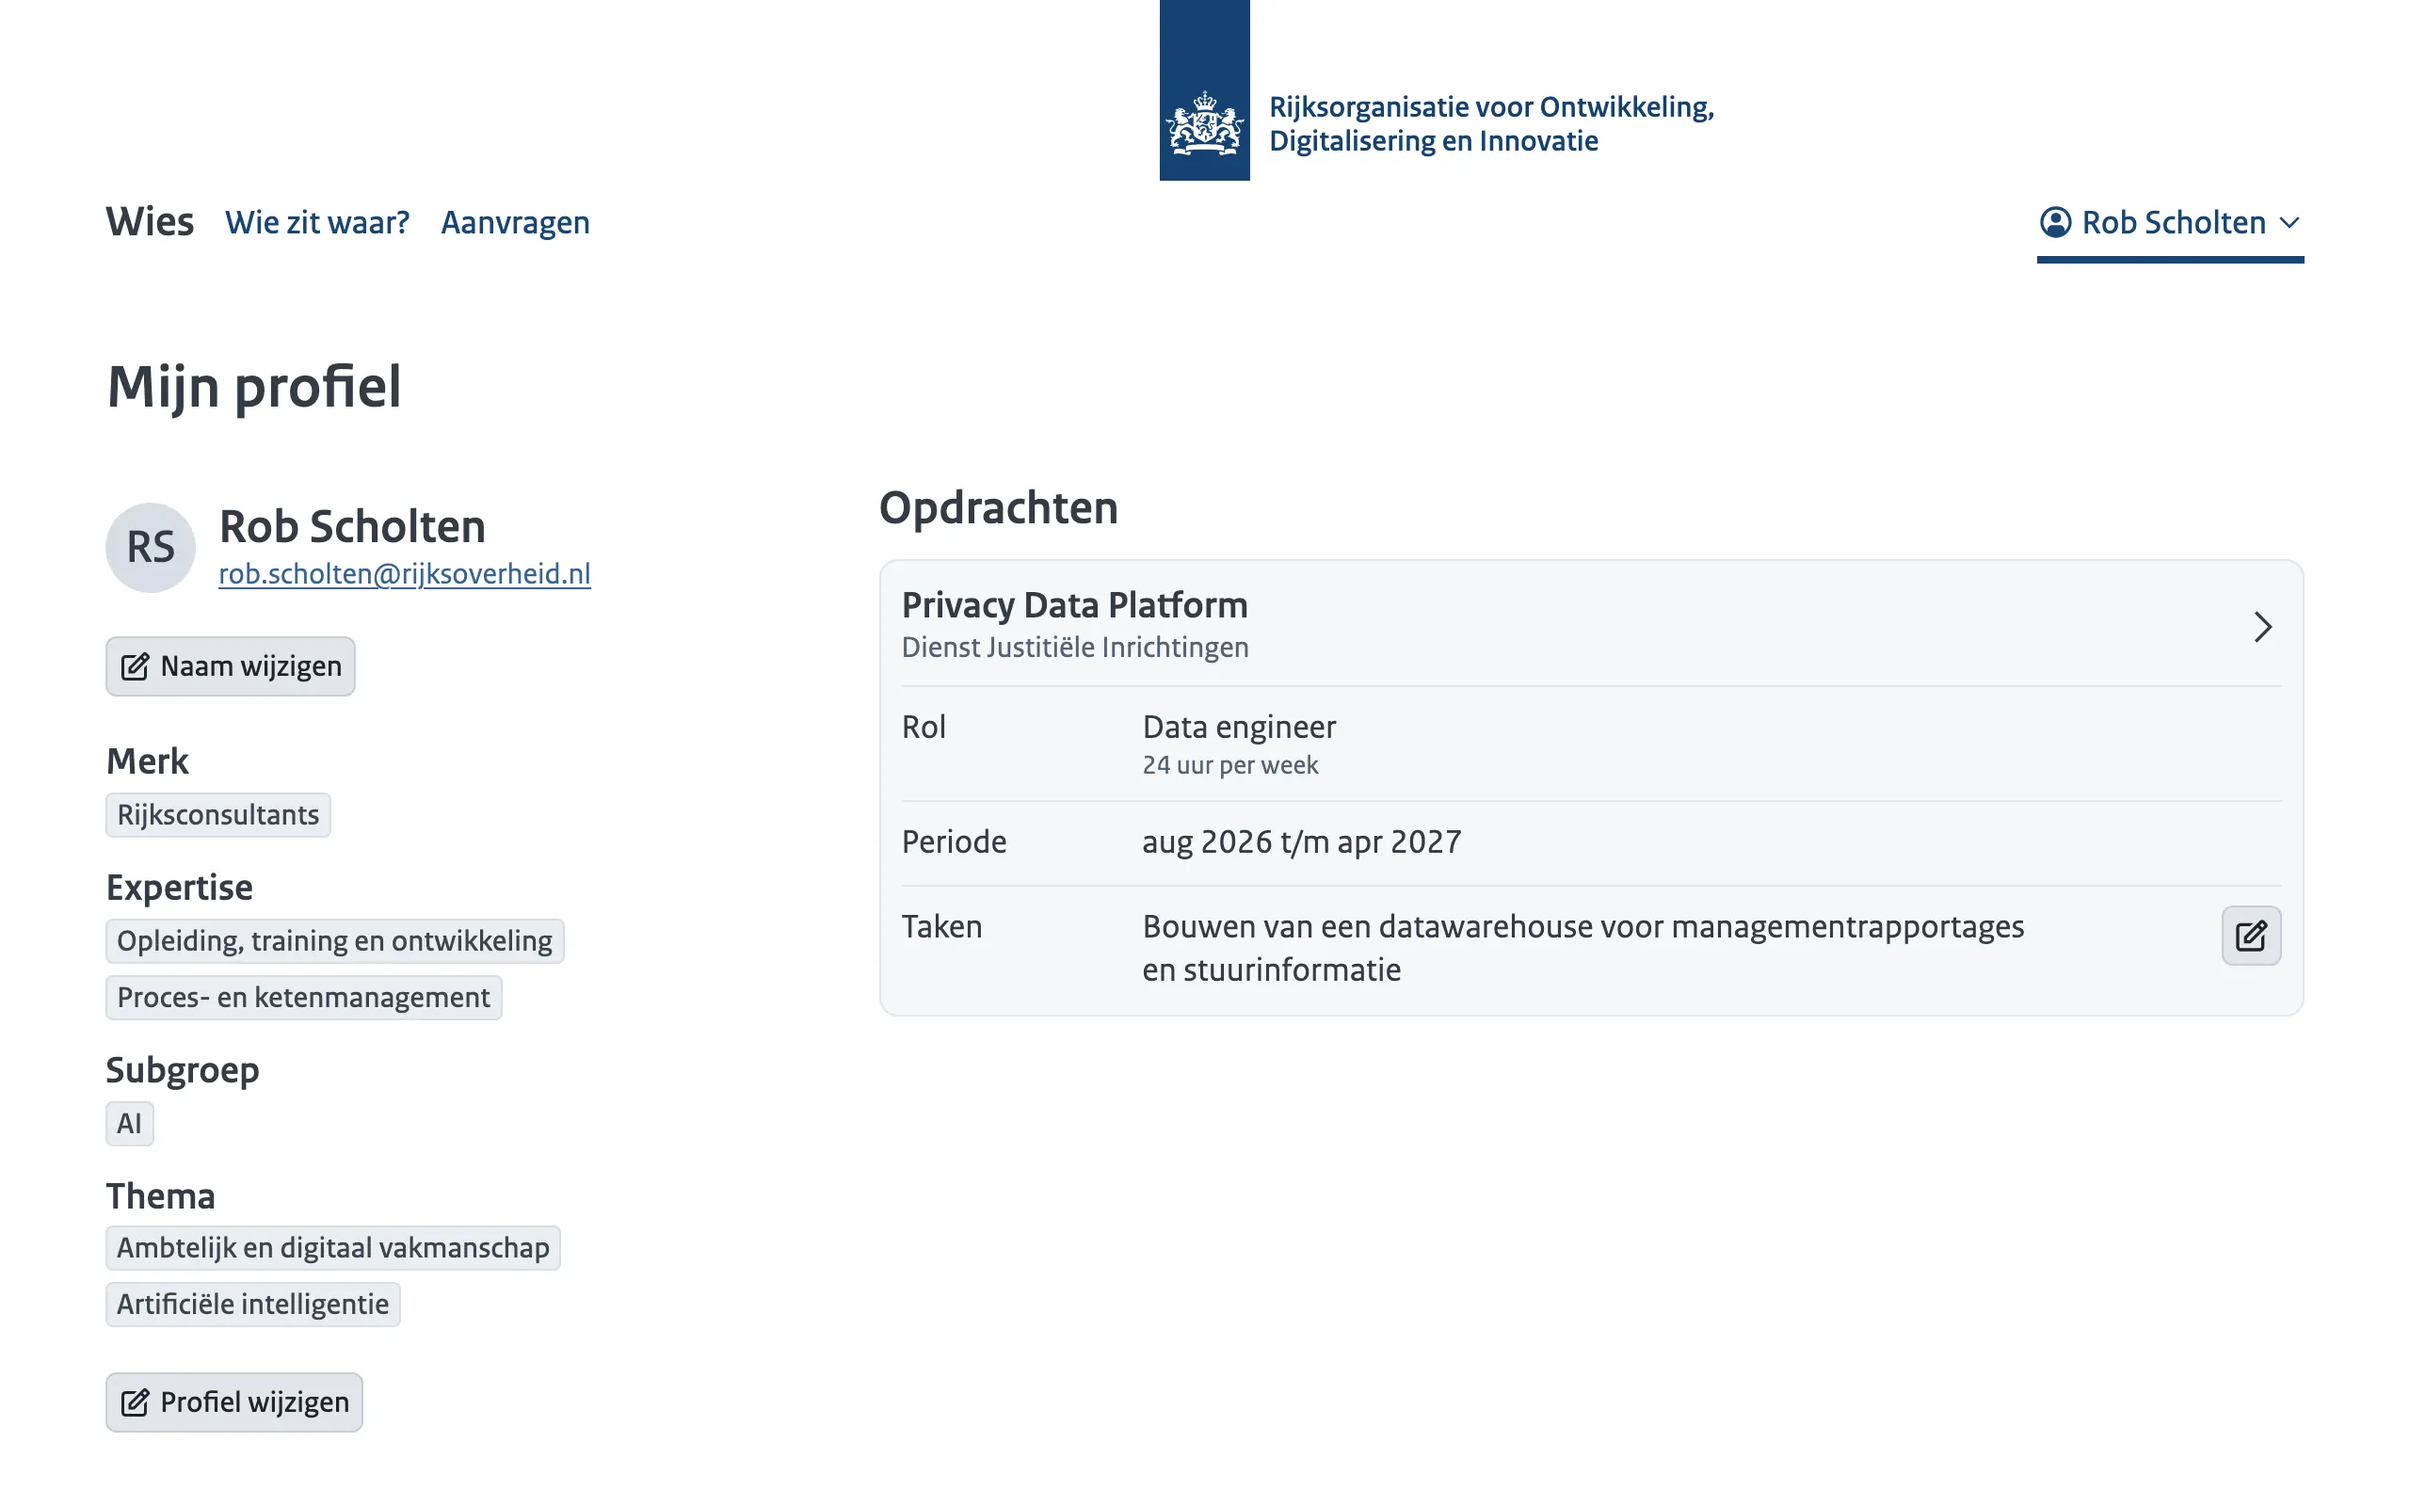
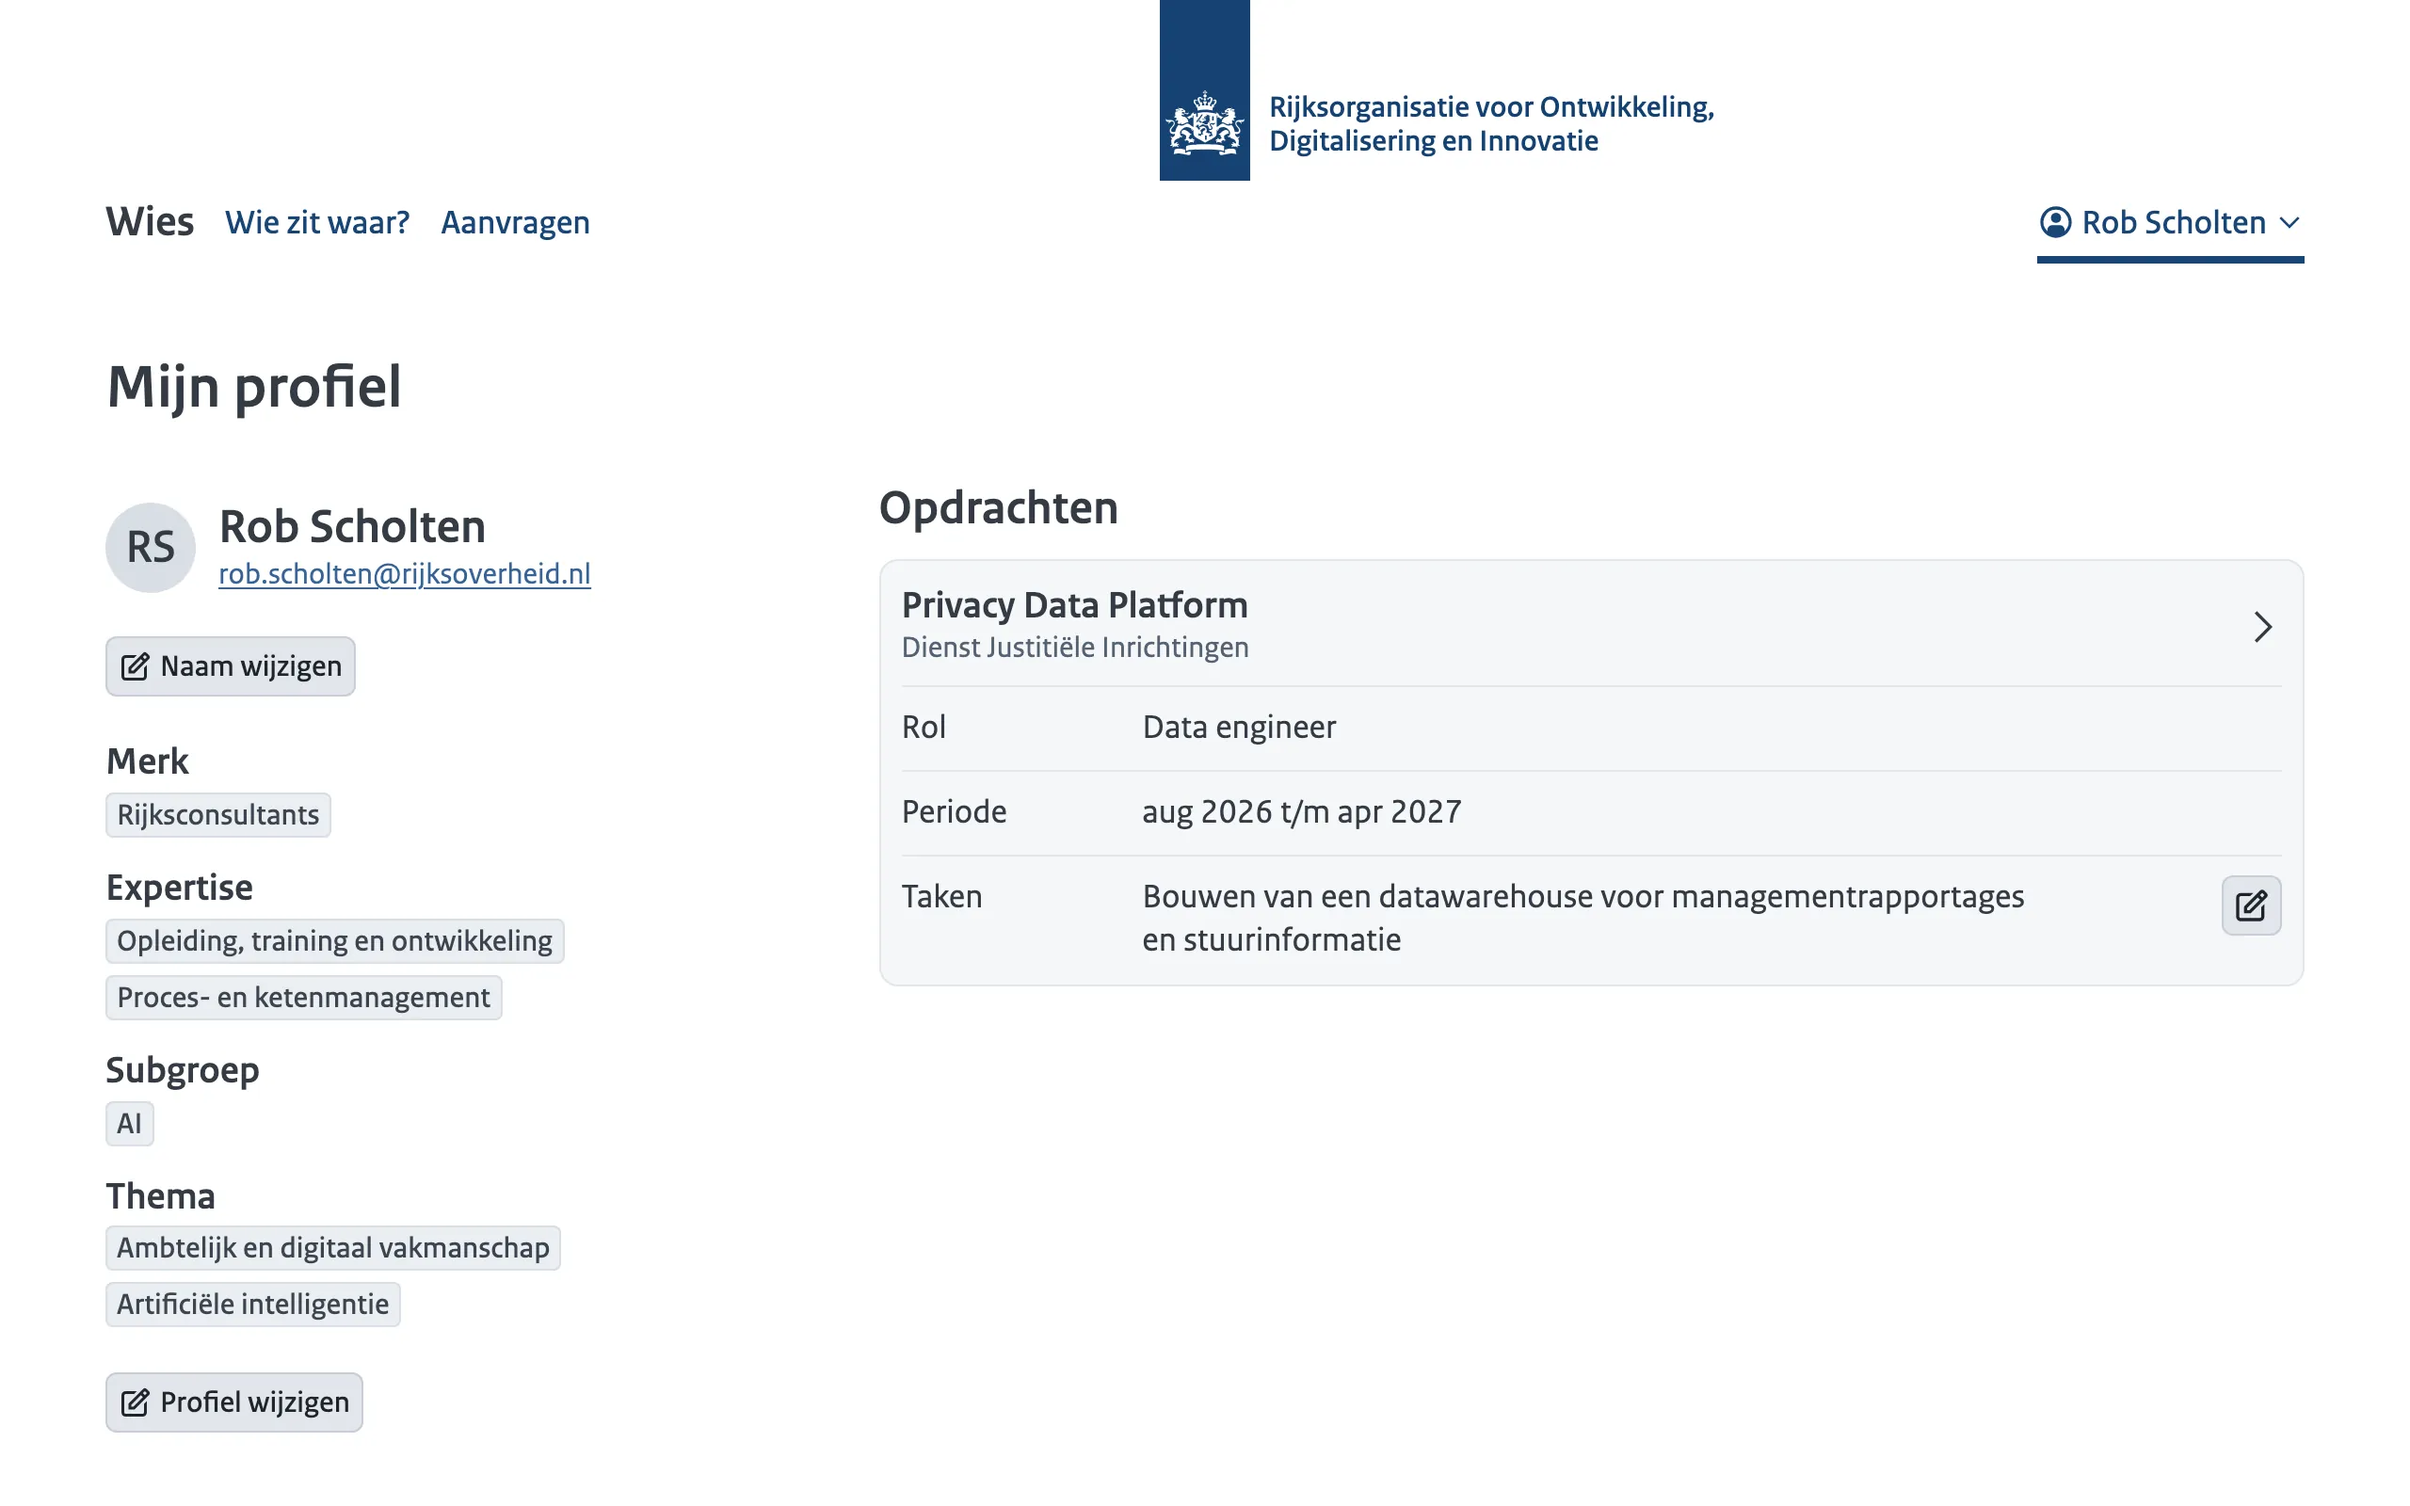
Hide a consultant's own role hours (#736)
Only the Business Manager sees the hours per week of a placed role; an open
aanvraag still shows its hours to everyone. The number raised more questions
about who could see it than it answered for the consultant.

Changed region(s): [[0.4688, 0.5, 0.8438, 0.6562], [0.375, 0.5312, 0.4375, 0.625], [0.9062, 0.5938, 0.9375, 0.625]]

diff --git a/wies/core/jinja2/handleiding.html b/wies/core/jinja2/handleiding.html
@@ -86,7 +86,7 @@
   <h3 id="wie-ziet-je-taken">Wie ziet je taken?</h3>
   <p>
     Collega's zien bij je opdracht je rol, de periode en je taken. Je uren per week
-    zien alleen jij en de Business Managers.
+    zien alleen de Business Managers.
   </p>
   <nldd-image class="wies-shot" src="{{ static('handleiding/zo-zien-collegas-je.webp') }}" alt="Je profiel zoals een collega het ziet: je naam, merk en labels, en je opdracht met rol, periode en taken, zonder uren per week" aspect-ratio="16/10" object-fit="contain"></nldd-image>
   <h2 id="zelf-aanpassen">Wat je verder zelf kunt aanpassen</h2>

diff --git a/wies/core/jinja2/privacy.html b/wies/core/jinja2/privacy.html
@@ -34,7 +34,7 @@
     <li>
       Contracturen per week, met de periode waarin die golden; zichtbaar voor business managers en gebruikersbeheerders
     </li>
-    <li>Uren per week van je rol op een opdracht; zichtbaar voor business managers en jezelf</li>
+    <li>Uren per week van je rol op een opdracht; zichtbaar voor business managers</li>
     <li>De datum waarop je uit dienst bent gegaan, als einde van je laatste contractperiode</li>
   </ul>
   <h2>Waarvoor gebruiken wij jouw gegevens?</h2>

diff --git a/wies/core/tests/test_hours.py b/wies/core/tests/test_hours.py
@@ -1074,8 +1074,9 @@ class ServiceHoursPermissionTest(TestCase):
         assert Event.objects.count() == before
 
     def test_hours_of_a_placed_colleague_are_hidden_from_team_mates(self):
-        """Team mates see each other's role and description, not the hours; an
-        open aanvraag shows its hours to everyone; a Business Manager sees them all."""
+        """Team mates see each other's role and description, not the hours, and a
+        consultant not even their own; an open aanvraag shows its hours to
+        everyone; a Business Manager sees them all."""
         assignment = self.service.assignment
         mate = _consultant("Team Maat", "maat@x.nl")
         mate_service = Service.objects.create(
@@ -1094,7 +1095,7 @@ class ServiceHoursPermissionTest(TestCase):
 
         client.force_login(self.user)
         team = client.get(reverse("home"), {"opdracht": assignment.public_id}).content.decode()
-        assert "24 uur" in team  # own
+        assert "24 uur" not in team  # own
         assert "16 uur" not in team  # the team mate's
         assert "8 uur" in team  # the aanvraag's
         mate_panel = client.get(
@@ -1122,7 +1123,7 @@ class ServiceHoursPermissionTest(TestCase):
         body = client.get(
             reverse("home"), {"opdracht": self.service.assignment.public_id, "collega": self.colleague.public_id}
         ).content.decode()
-        assert "24 uur" in body
+        assert "24 uur" not in body
 
 
 @override_settings(STAFF_EMAILS=[STAFF_EMAIL])

diff --git a/wies/core/roles.py b/wies/core/roles.py
@@ -104,10 +104,11 @@ def is_staff_member(user) -> bool:
 def can_view_role_hours(user, placement) -> bool:
     """Whether the user may see the hours per week of a role.
 
-    Agreed with Patrick (mail of 13 July 2026): the hours of a placed consultant
-    are for who plans the work (the Business Manager) and for the consultant, not for
-    team mates. An open aanvraag has no one to protect, so its hours are visible
-    to everyone who sees the opdracht.
+    The hours of a placed consultant are for who plans the work, the Business
+    Manager. The consultant does not see their own either: the number raised
+    more questions about who else could see it than it answered (#736). An open
+    aanvraag has no one to protect, so its hours are visible to everyone who
+    sees the opdracht.
 
     Narrower than ``rule(READ, ContractPeriod)``, which the Gebruikersbeheerder also
     reads: a contract is beheer, the hours on an opdracht are planning. The role
@@ -119,9 +120,6 @@ def can_view_role_hours(user, placement) -> bool:
     # user, to see what an outsider sees; that outsider sees no hours.
     if user is None:
         return False
-    colleague = getattr(user, "colleague", None)
-    if colleague is not None and placement.colleague_id == colleague.id:
-        return True
     return is_business_manager(user)
 
 

diff --git a/wies/core/tests/test_assignment_panel_rows.py b/wies/core/tests/test_assignment_panel_rows.py
@@ -136,8 +136,12 @@ class AssignmentPanelRowsTest(TestCase):
         assert "uur per week" not in closed
         self.client.force_login(self.anke_user)
         own = self.client.get(panel, headers=headers).content.decode()
+        # Not for the consultant herself either; only the planner sees them.
+        assert "uur per week" not in own
+        self.client.force_login(make_business_manager_user(email="planner@rijksoverheid.nl", name="Planner"))
+        planner = self.client.get(panel, headers=headers).content.decode()
         # On the entry's own line, not behind the fold.
-        assert "24 uur per week" in own.split("wies-cv__more")[0]
+        assert "24 uur per week" in planner.split("wies-cv__more")[0]
         # A description that fits the preview line has nothing behind the fold.
         Service.objects.filter(placements__colleague=self.bram).update(description="Kort.")
         bram = self.client.get(reverse("home") + f"?collega={self.bram.public_id}", headers=headers).content.decode()

diff --git a/wies/core/services/role_matrix.py b/wies/core/services/role_matrix.py
@@ -201,9 +201,7 @@ EXTRA_ROWS = [
         lambda u: evaluate_assignment_visibility(_PAST_START, _PAST_END, SimpleNamespace(user=u), _TODAY).visible,
     ),
     Row("Zichtbaarheid", "Business management openen", lambda u: show_bm_page(SimpleNamespace(user=u))),
-    # The hours on someone else's role; the own row is not a question, the
-    # consultant always sees their own. Why this is narrower than the
-    # ContractPeriod rows: ``can_view_role_hours``.
+    # Why this is narrower than the ContractPeriod rows: ``can_view_role_hours``.
     Row(
         "Zichtbaarheid",
         "Uren per week van een geplaatste collega zien",

diff --git a/CHANGES.md b/CHANGES.md
@@ -4,6 +4,7 @@ This files lists the changes during the lifetime of this project.
 
 ## unreleased
 
+- ???: consultants no longer see the hours per week of their own role; only business managers do, and an open aanvraag still shows its hours to everyone
 - 802: upgrade NLDD design system from 0.10.0 to 0.13.2 and drop the workarounds it makes obsolete; every form keeps novalidate
 - 783: bump dependencies for security patches and change trivy interval to "daily"
 - 787: (post-release actions) `ALLOWED_EMAIL_DOMAINS` overrides which email domains may log in (comma-separated, default `@rijksoverheid.nl,@minbzk.nl`)

diff --git a/docs/privacy.md b/docs/privacy.md
@@ -29,7 +29,7 @@ opdrachten. Het gaat om de volgende gegevens:
 - Functie en rol binnen ODI
 - Gegevens over plaatsingen en opdrachten van de huidige opdracht (zoals opdrachtgever, looptijd en status)
 - Contracturen per week, met de periode waarin die golden; zichtbaar voor business managers en gebruikersbeheerders
-- Uren per week van je rol op een opdracht; zichtbaar voor business managers en jezelf
+- Uren per week van je rol op een opdracht; zichtbaar voor business managers
 - De datum waarop je uit dienst bent gegaan, als einde van je laatste contractperiode
 
 ## Waarvoor gebruiken wij jouw gegevens?
